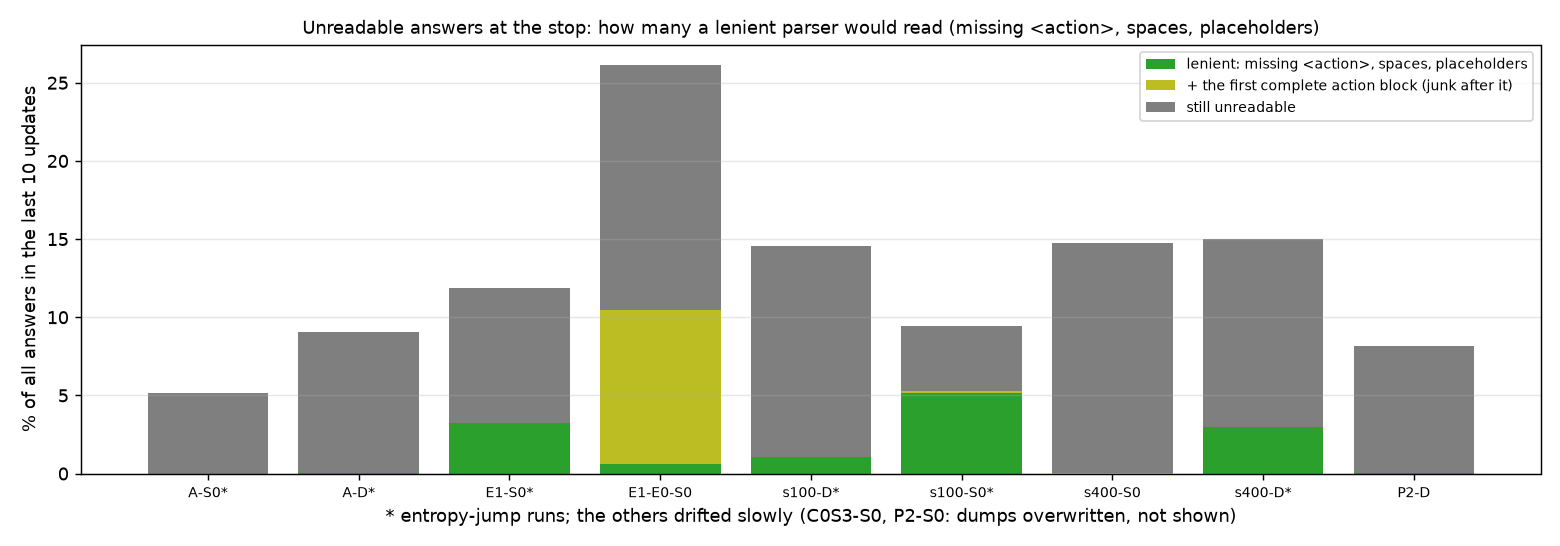
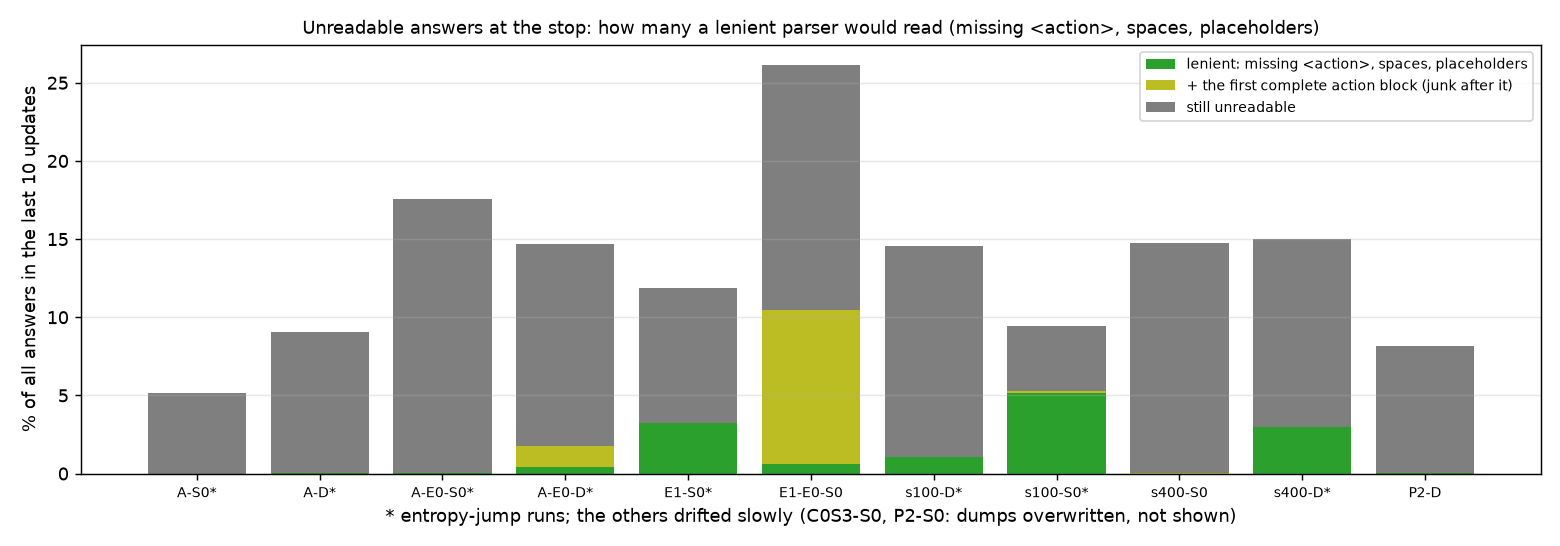
cluster_runs: format drift, the A-group entropy-off pair added (stopped 2026-10-22 10:10 / 10:16 at updates 40 / 44): 13 stopped runs, 8 of the entropy-jump kind. With the entropy bonus off the original 7B still collapses the same way (peak entropy 0.62 / 0.56; abbreviated or made-up names such as m

Changed region(s): [[0.1538, 0.0934, 0.8923, 0.9341], [0.8923, 0.8718, 0.9231, 0.9341], [0.1231, 0.8718, 0.1538, 0.9029]]

diff --git a/data_gen/interiorgs_v10/cluster_runs/FORMAT_DRIFT_R12.md b/data_gen/interiorgs_v10/cluster_runs/FORMAT_DRIFT_R12.md
@@ -1,12 +1,15 @@
 # 格式漂移汇总（第十二轮，2026-10-22，只用已有记录、不用 GPU）
 
+> 10-22 10:20 补充：A 组熵关那一对（S0 10:10 停在第 40 次，D 10:16 停在第 44 次）也被停下，已加进表和图。一共 13 个，熵跳高类 8 个、慢慢漂移类 5 个。
+
 ## 结论
 
-1. **本批被"读不出动作"停止线停下的 RL 一共 11 个，按训练中熵的最高值分成两类，界线很清楚。**
+1. **本批被"读不出动作"停止线停下的 RL 一共 13 个，按训练中熵的最高值分成两类，界线很清楚。**
    - 熵是模型输出的随机程度，越高越随机。
-   - **熵跳高、编造动作名（6 个）**：A 组两方、E1 的 S0、100 个场景两方、400 个场景的 D。
+   - **熵跳高、编造动作名（8 个）**：A 组两方、A 组熵关两方、E1 的 S0、100 个场景两方、400 个场景的 D。
      - 起点都是"格式没学牢"的模型：原始 7B（没做 SFT）、SFT 第 1 个 epoch，或只训了 6 个 epoch 的数据规模 SFT。
      - 熵从起点的 0.09–0.23 升到最高 0.31–0.88，是起点的 2–7 倍。
+     - 关掉熵奖励也一样：A 组熵关两方的熵升到 0.62 / 0.56，读不出的回答还是缩写和编造的名字（`move_back`、`left`、`stop`、`none`）和失控的重复，只比开着熵奖励时多撑了约 10 次（第 40、44 次对第 29、41 次，停止线 10% 对 5%）。
      - 读不出的回答是乱码或编造的名字（`move_back`、`moveight`、`move明<`、`move podcast`）、重复的词（`left|left|left|…`）和空格代替下划线（`turn left`）。
    - **慢慢漂移、丢标签或空动作（5 个）**：E1 熵关的 S0、400 个场景的 S0、C0 第三个种子的 S0、第二对两方。
      - 熵最高只到 0.04–0.21。
@@ -30,7 +33,7 @@
 - **放宽解析（第一级）**：你给的三种写法都算读出：丢了开头的 `<action>`、空格代替下划线、去掉照抄的占位名后还剩真实的动作。
 - **放宽解析（第二级）**：在第一级之上，只取第一段完整的 `<action>…</action>`，后面的多余内容不管。
 
-## 表 1：11 个被停下的 RL
+## 表 1：13 个被停下的 RL
 
 按停下的先后排在各自一类里。读不出的比例是停止线用的那个数：最后 10 次更新里，每条轨迹读不出的回合占比的平均。
 
@@ -38,6 +41,8 @@
 | --- | --- | --- | --- | --- | --- | --- | --- | --- | --- | --- | --- |
 | 熵跳高 | A-S0 | 原始 7B | 0 | 0.162 | 0.168 | 0.307 | 29 | 5% | 5.2% | 0.09 → 0.15 | 编造或缩写的名字 1,061（`move_back`、`go_straigh`） |
 | 熵跳高 | A-D | 原始 7B | 0 | 0.232 | 0.424 | 0.879 | 41 | 5% | 8.2% | 0.09 → 0.23 | 编造或缩写 952（`left`、`right`、`move_back`、`roll` 重复） |
+| 熵跳高 | A 组熵关 S0 | 原始 7B，熵奖励关 | 0 | 0.221 | 0.394 | 0.621 | 40 | 10% | 16.3%（停止线算的第 30–39 次是 13.2%） | 0.09 → 0.15 | 没有完整标签（失控的重复）1,014，编造或缩写 980（`move_back`、`left`、`right`、`none`），空动作 100 |
+| 熵跳高 | A 组熵关 D | 原始 7B，熵奖励关 | 0 | 0.234 | 0.385 | 0.557 | 44 | 10% | 11.2% | 0.09 → 0.13 | 编造或缩写 1,386（`left`、`right`、`move_back`、`stop`），没有完整标签 782（含 `<answer>…</answer>` 包着的），空动作 158，空格 74 |
 | 熵跳高 | E1-S0 | SFT 第 1 个 epoch | 1 | 0.147 | 0.369 | 0.805 | 45 | 5% | 9.3% | 0.30 → 0.31 | 乱码名 782（`move折`、`moveight`），空格 314 |
 | 熵跳高 | 100 个场景 D | 100 个场景 SFT 第 6 个 epoch | 6 | 0.153 | 0.514 | 0.707 | 71 | 10% | 11.4% | 0.33 → 0.33 | 空动作 1,237，乱码名 794（`move明<`），空格 165 |
 | 熵跳高 | 100 个场景 S0 | 同上 | 6 | 0.141 | 0.370 | 0.584 | 87 | 5% | 6.4% | 0.31 → 0.37 | 空格 486，乱码或嵌套标签 292 |
@@ -51,7 +56,7 @@
 \* 这两个在停下后接着训过，它们停下前 10 次的记录被接着训覆盖了。形式用的是 10-21 接着训之前数的结果。
 
 **两点规律：**
-- 停下的 11 个，起点时读不出的回答都是 0%，格式问题都是 RL 中途长出来的。
+- 停下的 13 个，起点时读不出的回答都是 0% 或接近 0%（A 组熵关 D 前几次有一次到 2.6%），格式问题都是 RL 中途长出来的。
 - 停下时的训练成功率大多没有掉，甚至在升：格式坏掉和学会做题同时发生。
 
 ## 表 2：放宽解析能读出多少
@@ -62,6 +67,8 @@
 | --- | --- | --- | --- | --- |
 | 熵跳高 | A-S0 | 1,065 | 0（0%） | 0（0%） |
 | 熵跳高 | A-D | 1,039 | 5（0.5%） | 6（0.6%） |
+| 熵跳高 | A 组熵关 S0 | 2,102 | 3（0.1%） | 3（0.1%） |
+| 熵跳高 | A 组熵关 D | 2,400 | 66（2.8%） | 289（12%） |
 | 熵跳高 | E1-S0 | 1,102 | 301（27%） | 301（27%） |
 | 熵跳高 | 100 个场景 D | 2,204 | 164（7%） | 164（7%） |
 | 熵跳高 | 100 个场景 S0 | 844 | 458（54%） | 470（56%） |
